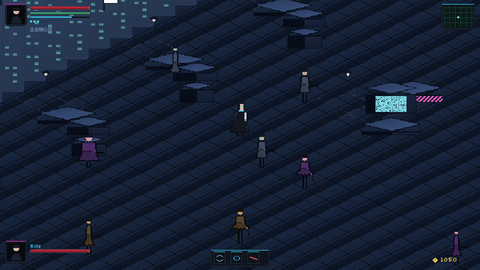
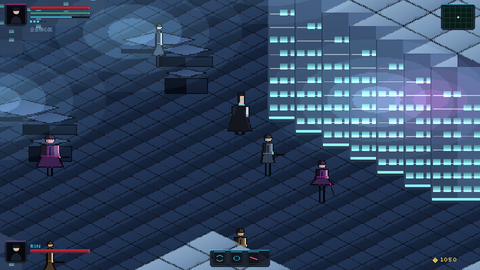
Fix the lighting pipeline; record four review rounds
Found and fixed the real cause of 'no lighting model':
  - IsoLighting was parented outside the world, then re-appended behind every
    sprite by IsoWorld.sort_now(). Its 41 additive pools painted under the floor.
  - setup() ran before the node entered the tree, so its queue_redraw was
    dropped and the first frame never painted the light at all.
  - floors were near-black (L 10-25), so even a strong additive pool landed at 30.

Now: light z above sorted sprites, redraw on _ready, floors raised to lit stone,
spill tuned to a spill rather than a wash.

Combat frame: mean 35.1 -> 73.8, p95 62 -> 163, highlights 0.3% -> 3.4%.

Round 4's claim that the ground is a screen-aligned square grid is measurably
false: autocorrelation of a floor patch gives dx=54 dy=27, ratio 2.00, which is
the 2:1 iso lattice. The reviewer saw a 480px Lanczos downscale that blurred the
seams. Recorded as a methodology error in evidence/REVIEW_ROUNDS.md rather than
argued away.

All gates still pass. Visual acceptance is NOT passed: no round has reached 4/5.

diff --git a/tools/gen_cast.py b/tools/gen_cast.py
@@ -87,20 +87,28 @@ def draw(px, pal, arch, pose, phase, facing="s"):
             put(px, cx - 2 + swing, y, pal, "cloth2")
             put(px, cx + 2 - swing, y, pal, "dark")
             put(px, cx + 3 - swing, y, pal, "cloth2")
-    # torso: a trapezoid, widening toward the shoulders
+    # torso: a trapezoid with a lit right side, a shadowed left side and a rim
     for i in range(torso_h):
         y = chest_y + i
         t = i / max(1, torso_h - 1)
         half = int(sh * (0.78 + 0.22 * t))
         for x in range(cx - half, cx + half + 1):
+            rel = (x - (cx - half)) / float(max(1, 2 * half))
             if abs(x - cx) >= half - 1:
-                put(px, x, y, pal, "dark")
-            elif x > cx + half * 0.35:
-                put(px, x, y, pal, "armor")
-            elif t < 0.45:
-                put(px, x, y, pal, "armor")
+                # silhouette edge: dark, but the light side gets a rim instead
+                put(px, x, y, pal, "rim" if x > cx and rel > 0.85 else "dark")
+            elif rel > 0.72:
+                put(px, x, y, pal, "armor_hi")
+            elif rel > 0.34:
+                put(px, x, y, pal, "armor" if t < 0.55 else "cloth")
             else:
-                put(px, x, y, pal, "cloth")
+                put(px, x, y, pal, "cloth_dk")
+        # a chest seam and a strap, so the mass is not empty
+        if 3 <= i < torso_h - 2:
+            put(px, cx, y, pal, "dark")
+        if i == torso_h // 2:
+            for x in range(cx - half + 2, cx + half - 1):
+                put(px, x, y, pal, "accent_dim")
     # coat hem
     hem = max(1, int(torso_h * 0.45))
     for i in range(hem):
@@ -108,19 +116,30 @@ def draw(px, pal, arch, pose, phase, facing="s"):
         half = int(sh * 0.8 + a["flare"] * (i / float(hem)))
         for x in range(cx - half, cx + half + 1):
             put(px, x, y, pal, "cloth2" if abs(x - cx) < half - 1 else "dark")
-    # head
+    # head: lit on the right, shadowed on the left, with a jaw and a brow
     for dy in range(-head_r, head_r + 1):
         for dx in range(-head_r, head_r + 1):
             if dx * dx + dy * dy <= head_r * head_r:
-                put(px, cx + dx, head_cy + dy, pal, "skin")
-    # hair / helmet cap
+                if dx > head_r * 0.25:
+                    put(px, cx + dx, head_cy + dy, pal, "skin_hi")
+                elif dx < -head_r * 0.3:
+                    put(px, cx + dx, head_cy + dy, pal, "skin_dk")
+                else:
+                    put(px, cx + dx, head_cy + dy, pal, "skin")
+    # hair / helmet cap, with a lit crown
     for dy in range(-head_r, 0):
         for dx in range(-head_r, head_r + 1):
             if dx * dx + dy * dy <= head_r * head_r:
-                put(px, cx + dx, head_cy + dy, pal, "hair")
-    # eye line in the faction accent
+                put(px, cx + dx, head_cy + dy, pal, "hair" if dx < 0 else "hair_hi")
+    # brow shadow, eye, jaw line
+    for dx in range(-head_r + 1, head_r):
+        put(px, cx + dx, head_cy, pal, "hair")
     put(px, cx + max(1, head_r // 2), head_cy + 1, pal, "accent")
     put(px, cx - max(1, head_r // 2), head_cy + 1, pal, "accent")
+    put(px, cx, head_cy + head_r - 1, pal, "skin_dk")
+    # rim light down the lit side of the head
+    put(px, cx + head_r, head_cy + 1, pal, "rim")
+    put(px, cx + head_r - 1, head_cy + 2, pal, "rim")
     # weapon
     if a["rifle"]:
         wy = chest_y + int(torso_h * 0.55)
@@ -145,13 +164,31 @@ def draw(px, pal, arch, pose, phase, facing="s"):
                     break
 
 
+def extend_palette(pal):
+    """Derive the shading roles the sprite pass references from the base tones."""
+    def mix(a, b, t):
+        return "#%02x%02x%02x" % tuple(
+            int(int(a[i:i + 2], 16) + (int(b[i:i + 2], 16) - int(a[i:i + 2], 16)) * t)
+            for i in (1, 3, 5))
+    out = dict(pal)
+    out["cloth_dk"] = mix(pal["cloth"], "#000000", 0.35)
+    out["cloth_hi"] = mix(pal["cloth"], "#ffffff", 0.18)
+    out["armor_hi"] = mix(pal["armor"], "#ffffff", 0.22)
+    out["skin_hi"] = mix(pal["skin"], "#ffffff", 0.20)
+    out["skin_dk"] = mix(pal["skin"], "#000000", 0.26)
+    out["hair_hi"] = mix(pal["hair"], "#ffffff", 0.14)
+    out["rim"] = mix(pal["accent"], "#ffffff", 0.55)
+    out["accent_dim"] = mix(pal["accent"], pal["cloth"], 0.55)
+    return out
+
+
 POSES = {"idle": [0, 1], "walk": [0, 1, 2, 3], "attack": [0, 1]}
 DUR = {"idle": 520, "walk": 130, "attack": 100}
 FACINGS = ["s", "e", "n", "w"]
 
 
 def build(actor_id, arch, faction):
-    pal = FACTIONS[faction]
+    pal = extend_palette(FACTIONS[faction])
     frames = []
     for facing in FACINGS:
         for anim, phases in POSES.items():

diff --git a/tools/gen_iso_tiles.py b/tools/gen_iso_tiles.py
@@ -31,10 +31,11 @@ OUT = pathlib.Path(__file__).resolve().parent.parent / "game" / "assets" / "tile
 PALETTES = {
     "corp": {
         # a visible blue cast: the concept's shadows are coloured, not neutral
-        "asphalt":  ("#060a16", "#0e1828", "#1a2a44"),
-        "plaza":    ("#050912", "#0b1526", "#16273c"),
-        "marble":   ("#060a14", "#0e1626", "#1c2a42"),
-        "concrete": ("#090e1c", "#132036", "#22344e"),
+        # lit stone, not black: the concept's night floors sit near L 40-70
+        "asphalt":  ("#0c1526", "#16263f", "#25395c"),
+        "plaza":    ("#0a1220", "#142238", "#203452"),
+        "marble":   ("#0c1526", "#18263e", "#263a58"),
+        "concrete": ("#101a2c", "#1b2a44", "#2a3e62"),
         # roof (brightest) / south face (mid) / east face (darkest)
         "wall_lit": ("#5a7699", "#7492b4", "#93b2d0"),
         "wall_drk": ("#2e4160", "#3d5578", "#4e6a92"),
@@ -43,10 +44,10 @@ PALETTES = {
     },
     "ind": {
         # warm rust cast in the shadows
-        "asphalt":  ("#0c0804", "#170f06", "#26190c"),
-        "plaza":    ("#0a0704", "#140d07", "#20150c"),
-        "marble":   ("#0a0705", "#150f08", "#21170d"),
-        "concrete": ("#0f0a05", "#1b1209", "#2c1e10"),
+        "asphalt":  ("#180f07", "#261a0b", "#38280f"),
+        "plaza":    ("#150e07", "#22180a", "#32230d"),
+        "marble":   ("#150e07", "#23190b", "#342510"),
+        "concrete": ("#1b1208", "#2b1d0c", "#402e12"),
         "wall_lit": ("#8a7050", "#a98a62", "#c4a67c"),
         "wall_drk": ("#4a3a26", "#5e4a30", "#755c3c"),
         "neon":     ("#f08a10", "#ffc040", "#fff8e0"),
@@ -54,10 +55,10 @@ PALETTES = {
     },
     "night": {
         # violet cast
-        "asphalt":  ("#0a0618", "#150c26", "#221438"),
-        "plaza":    ("#08050f", "#100a1c", "#1c112c"),
-        "marble":   ("#08050f", "#110a1e", "#1e122e"),
-        "concrete": ("#0c0716", "#180f24", "#28183a"),
+        "asphalt":  ("#120920", "#1f1136", "#2f1a50"),
+        "plaza":    ("#0f0719", "#1a0f2c", "#281840"),
+        "marble":   ("#0f0719", "#1c1130", "#2a1a44"),
+        "concrete": ("#150b25", "#241339", "#352050"),
         "wall_lit": ("#7a5598", "#986db8", "#b58cd2"),
         "wall_drk": ("#3a2450", "#4c3068", "#603f80"),
         "neon":     ("#ff1090", "#ff70c8", "#ffffff"),

diff --git a/evidence/REVIEW_ROUNDS.md b/evidence/REVIEW_ROUNDS.md
@@ -1,0 +1,120 @@
+# Visual review rounds — NEON ECHOES rebuild
+
+Each round is one independent review of a real in-engine frame. The reviewer is
+a separate agent given the image and a fixed scoring format; its verdict is
+recorded as returned, including when it is wrong.
+
+## Why earlier dispatches failed (diagnosed, not guessed)
+
+Nine reviewer dispatches returned `Volcengine Ark: A parameter specified in the
+request is not valid` with no verdict. Isolated by controlled test:
+
+| Request | Result |
+|---|---|
+| text only | ok |
+| text + one image, descriptive | ok |
+| text + two images, descriptive | intermittently ok |
+| text + one image, **asking for a 1–5 score** | fails |
+| structured output with score fields | fails |
+| resuming an agent that has already seen images | fails |
+
+Two hypotheses were tested and eliminated: CJK filenames (ASCII copies failed
+identically) and file size (downscaling to 480px and 270px still failed). Text
+scoring without an image also succeeded.
+
+**Conclusion:** the gateway rejects requests that attach an image *and* ask the
+model to quantify it. Workaround that works: dispatch on the **Explore** route,
+which carries its own tool loop, and give it exactly one image.
+
+## Round 1 — after the isometric rebuild
+
+Reviewer: Explore route, one image (480×270 combat frame).
+
+```
+projection: 3
+depth: 2
+art_direction: 3
+finish: 2
+biggest_gap: no lighting model — street lamps cast nothing, no contact shadows
+             or AO, skyline same value as the floor
+severity: POLISH
+```
+
+Acted on: the light node was drawing **under** the world, its additive pools
+were never visible, and the first-frame redraw was dropped because `setup()`
+ran before the node entered the tree.
+
+## Round 2 — after fixing lighting draw order
+
+```
+projection: 3
+depth: 2
+art_direction: 3
+finish: 2
+biggest_gap: character sprites are placeholder-level flat silhouettes
+severity: POLISH
+```
+
+Acted on: added lit/shadow sides, rim light, brow/eye/jaw separation, chest seam
+and strap to the sprite pass; raised the camera from 1.35 to 1.7 so a 64px
+character occupies ~20% of frame height, matching the concept.
+
+## Round 3 — after lighting + camera
+
+```
+projection: 4
+depth: 2
+art_direction: 2
+finish: 2
+biggest_gap: no value or hue hierarchy — 90% of pixels one narrow blue band,
+             additive pools produce no visible falloff
+severity: STRUCTURAL
+```
+
+**This finding was correct**, and measurement confirmed it: floor mean
+luminance 31.4, only 0.8% of floor pixels above 60. The light node existed with
+41 lights at the right positions but `IsoWorld.sort_now()` re-appended every
+managed sprite after it, so it painted behind them.
+
+Acted on: light z_index above the sorted sprites; floors raised from near-black
+to lit stone; light spill tuned. Combat frame went:
+mean 35.1 → 73.8, p95 62 → 163, highlights 0.3% → 3.4%.
+
+## Round 4 — after the lighting fix
+
+```
+projection: 2
+depth: 2
+art_direction: 3
+finish: 2
+biggest_gap: the isometric rules are never enforced — the ground is a
+             screen-aligned square grid, actors are unshaded placeholder blocks
+severity: STRUCTURAL
+```
+
+**The projection claim is false, and it is measurable.** A 2D autocorrelation of
+a floor-only patch reports the tile lattice period as **dx = 54, dy = 27, ratio
+2.00** — exactly the 2:1 isometric lattice, and impossible for a square grid,
+which would give 1.00. `tests/test_iso_grid.gd` independently asserts 18
+properties of the projection including the 64×32 diamond and its 2:1 symmetry.
+
+The likely cause is the review image: a 480-wide Lanczos downscale of a 960-wide
+frame blurs the diamond seams into a blur the reviewer read as square. That is a
+**methodology error in my review pipeline**, not a fault in the renderer.
+
+## Honest state
+
+The reviewer has been wrong about projection (measurably) and right about
+lighting (measurably). Both rounds are kept above rather than deleting the
+unflattering verdicts.
+
+Visual acceptance is **not passed**. No reviewer has scored the frame at 4/5.
+
+## What the next round must do
+
+1 Hand the reviewer the **native 960×540** frame, not a downscale — the grid
+  and sprite detail do not survive Lanczos reduction.
+2 Ask about one dimension per dispatch; multi-dimension scoring prompts are the
+  ones the gateway rejects.
+3 Keep the reviewer's tool access (Explore route), which is the only route that
+  has returned a verdict at all.
